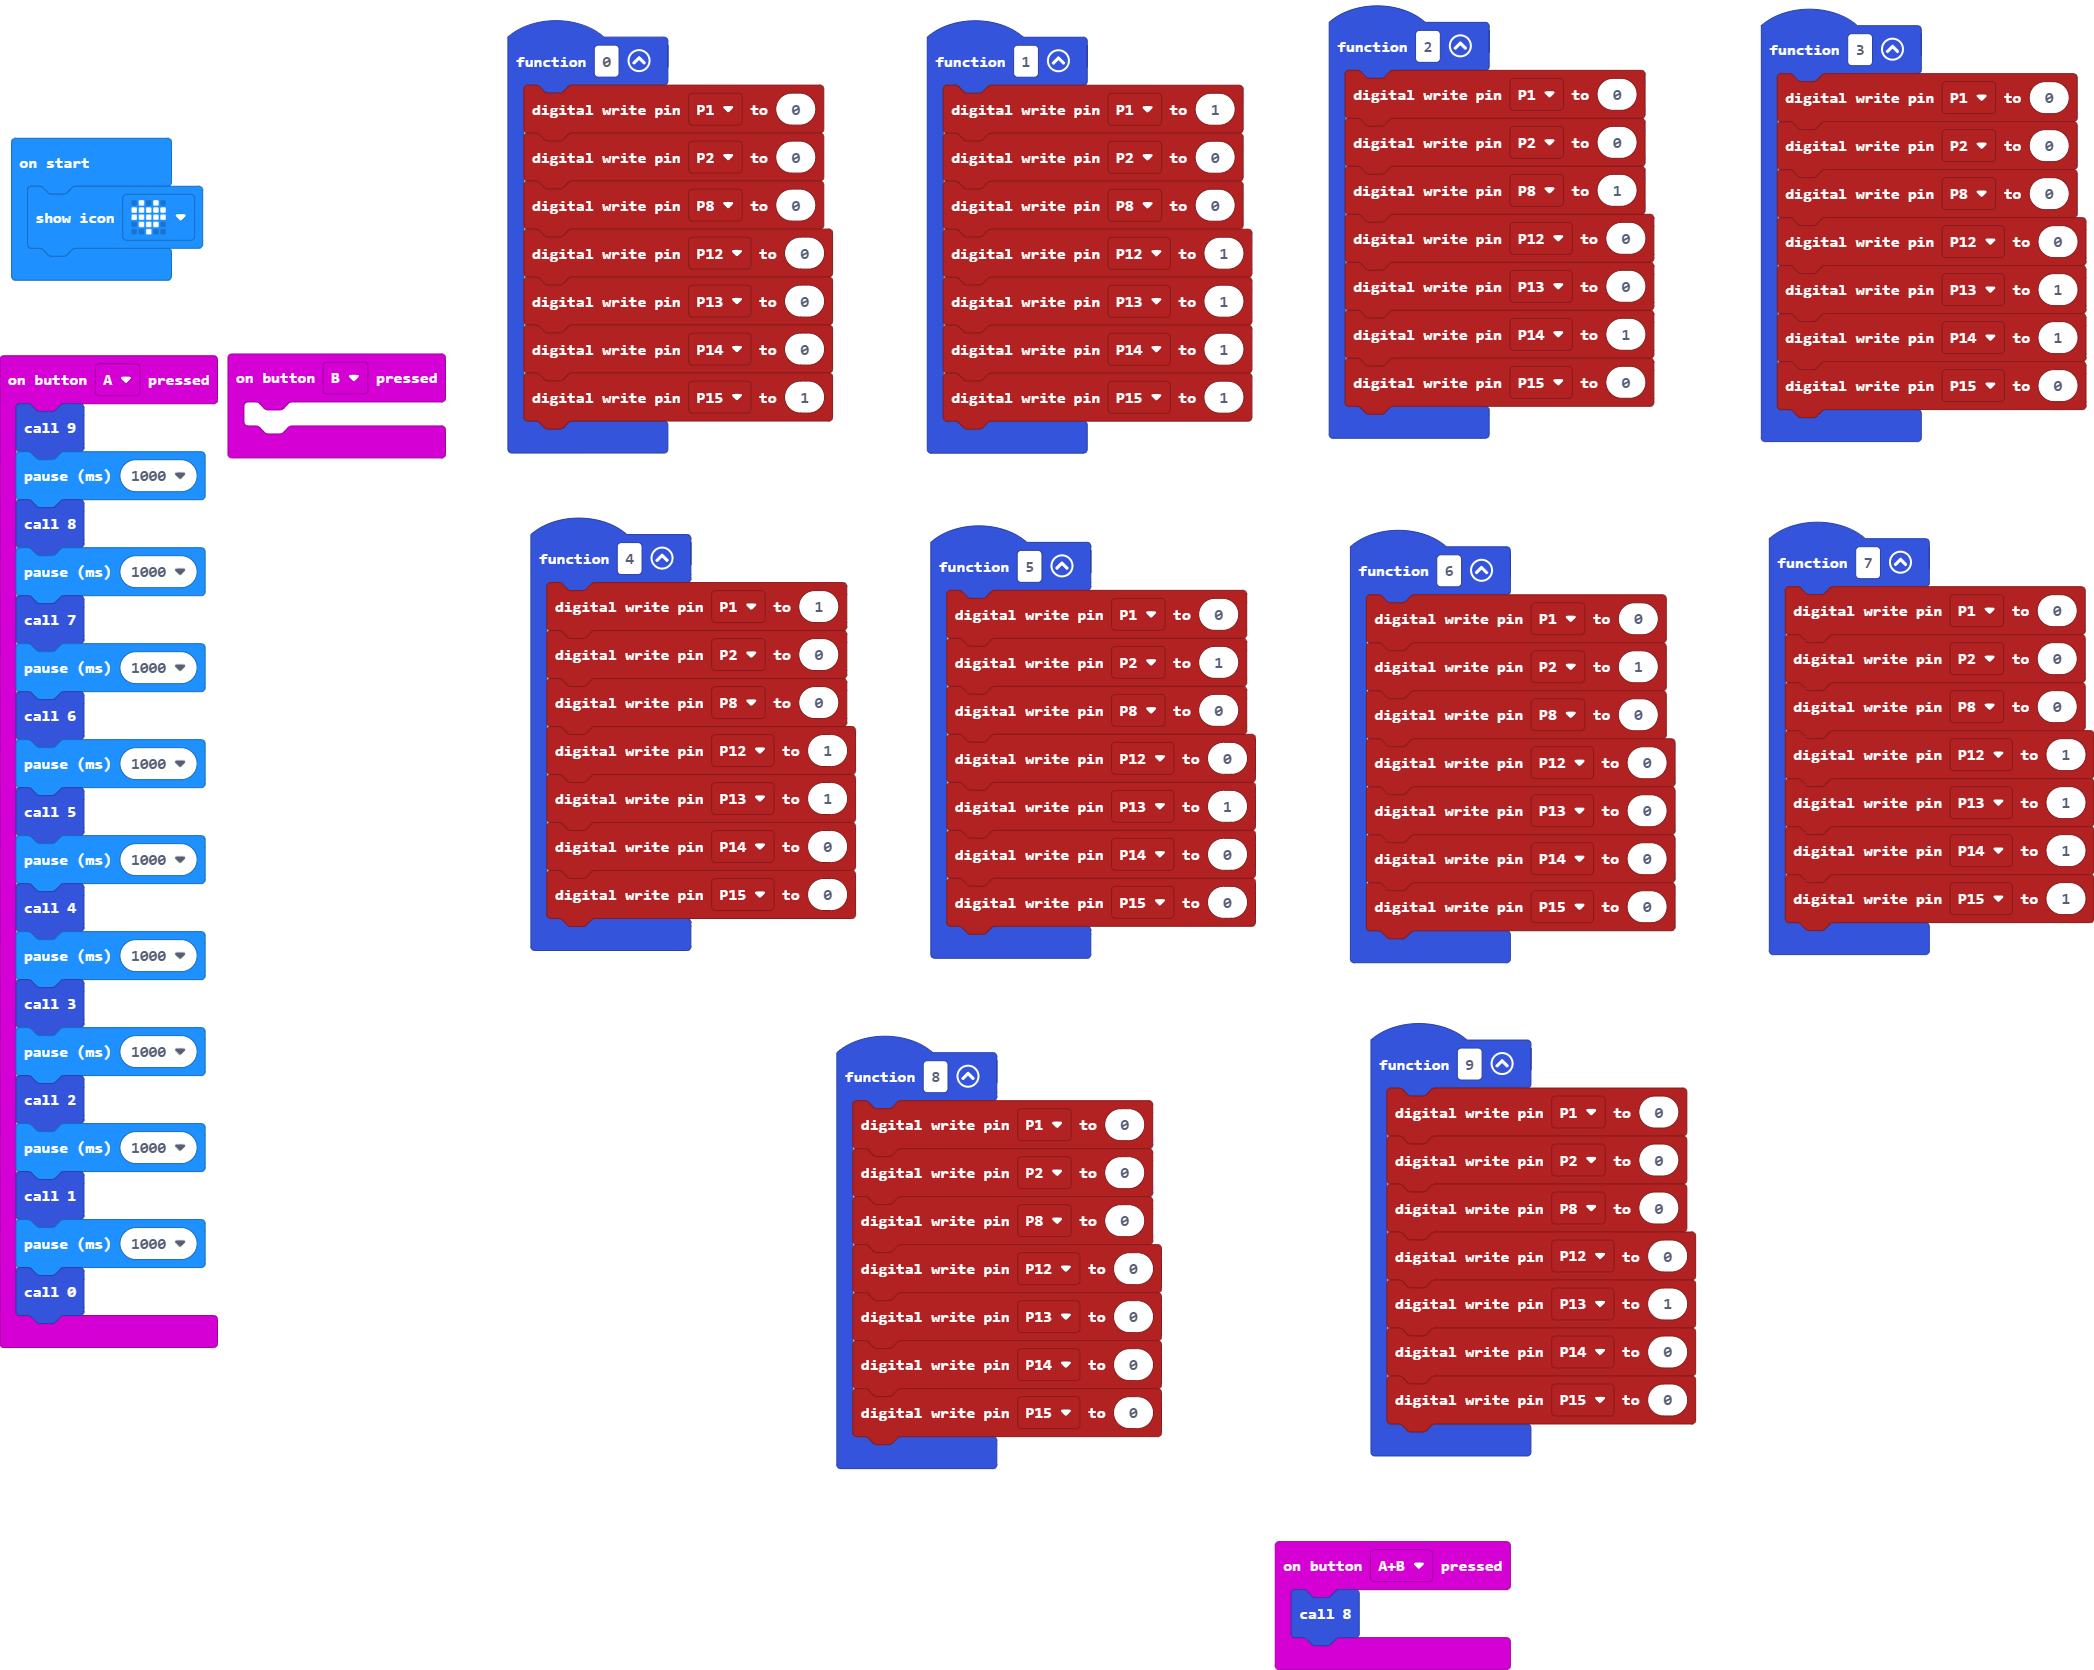
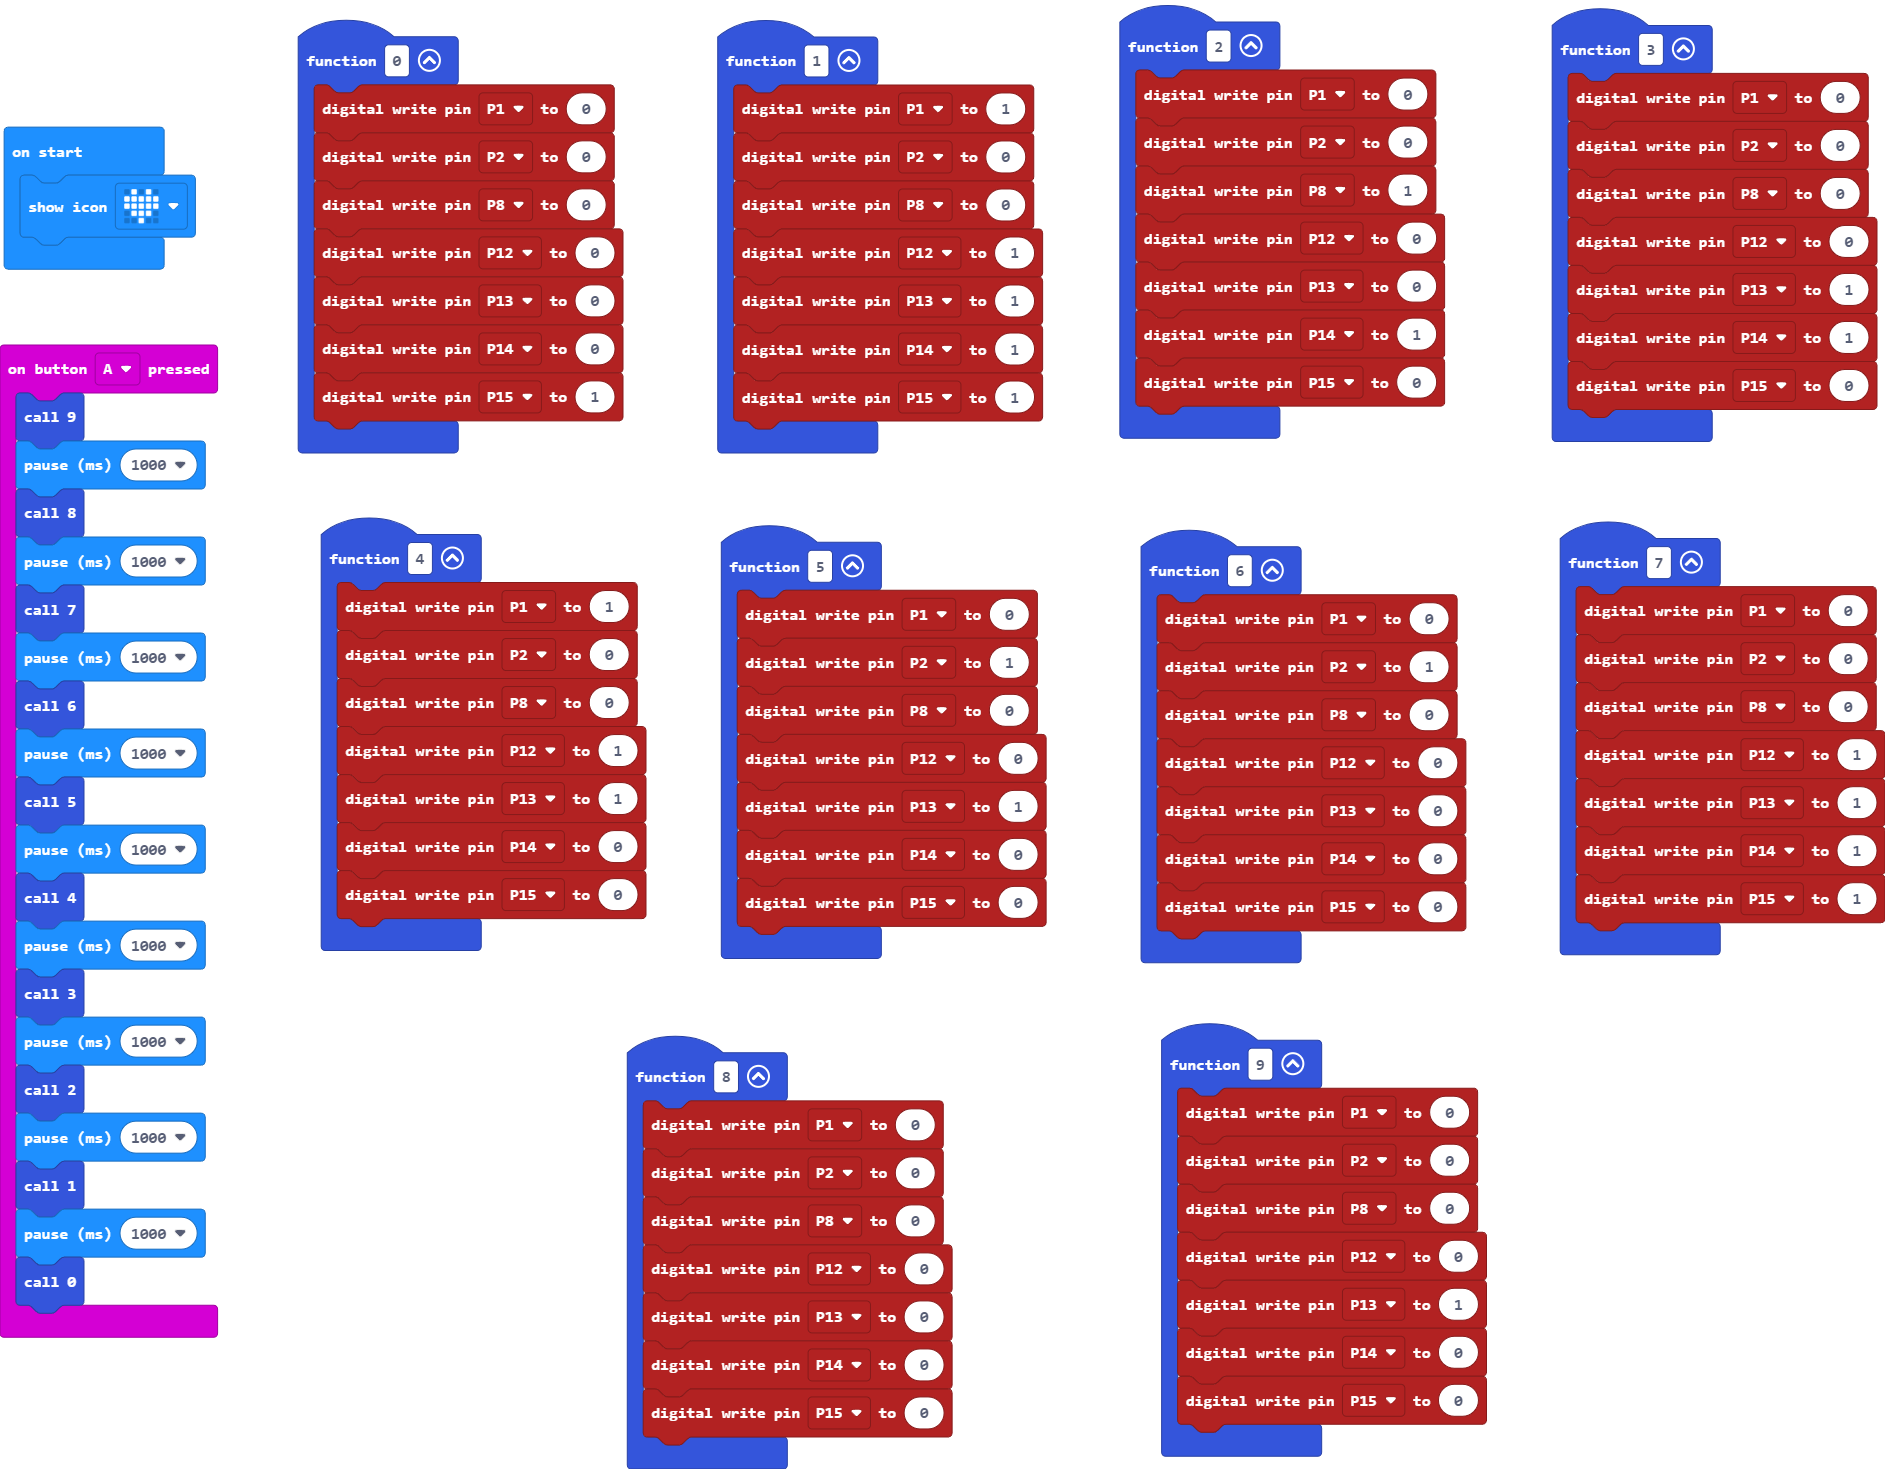
Update main.blocks, main.ts

diff --git a/main.ts b/main.ts
@@ -82,12 +82,6 @@ function _8 () {
     pins.digitalWritePin(DigitalPin.P14, 0)
     pins.digitalWritePin(DigitalPin.P15, 0)
 }
-input.onButtonPressed(Button.AB, function () {
-    _8()
-})
-input.onButtonPressed(Button.B, function () {
-	
-})
 function _0 () {
     pins.digitalWritePin(DigitalPin.P1, 0)
     pins.digitalWritePin(DigitalPin.P2, 0)
